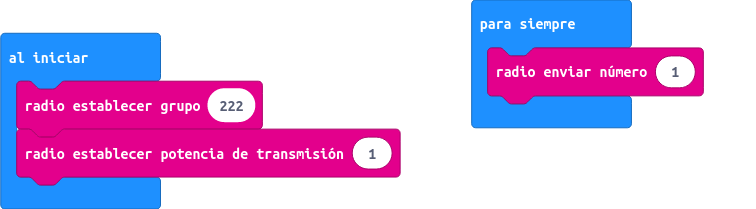
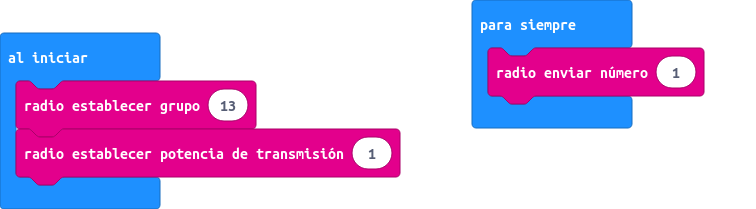
Actualizar main.blocks, main.ts

diff --git a/main.ts b/main.ts
@@ -1,4 +1,4 @@
-radio.setGroup(222)
+radio.setGroup(13)
 radio.setTransmitPower(1)
 basic.forever(function () {
     radio.sendNumber(1)
